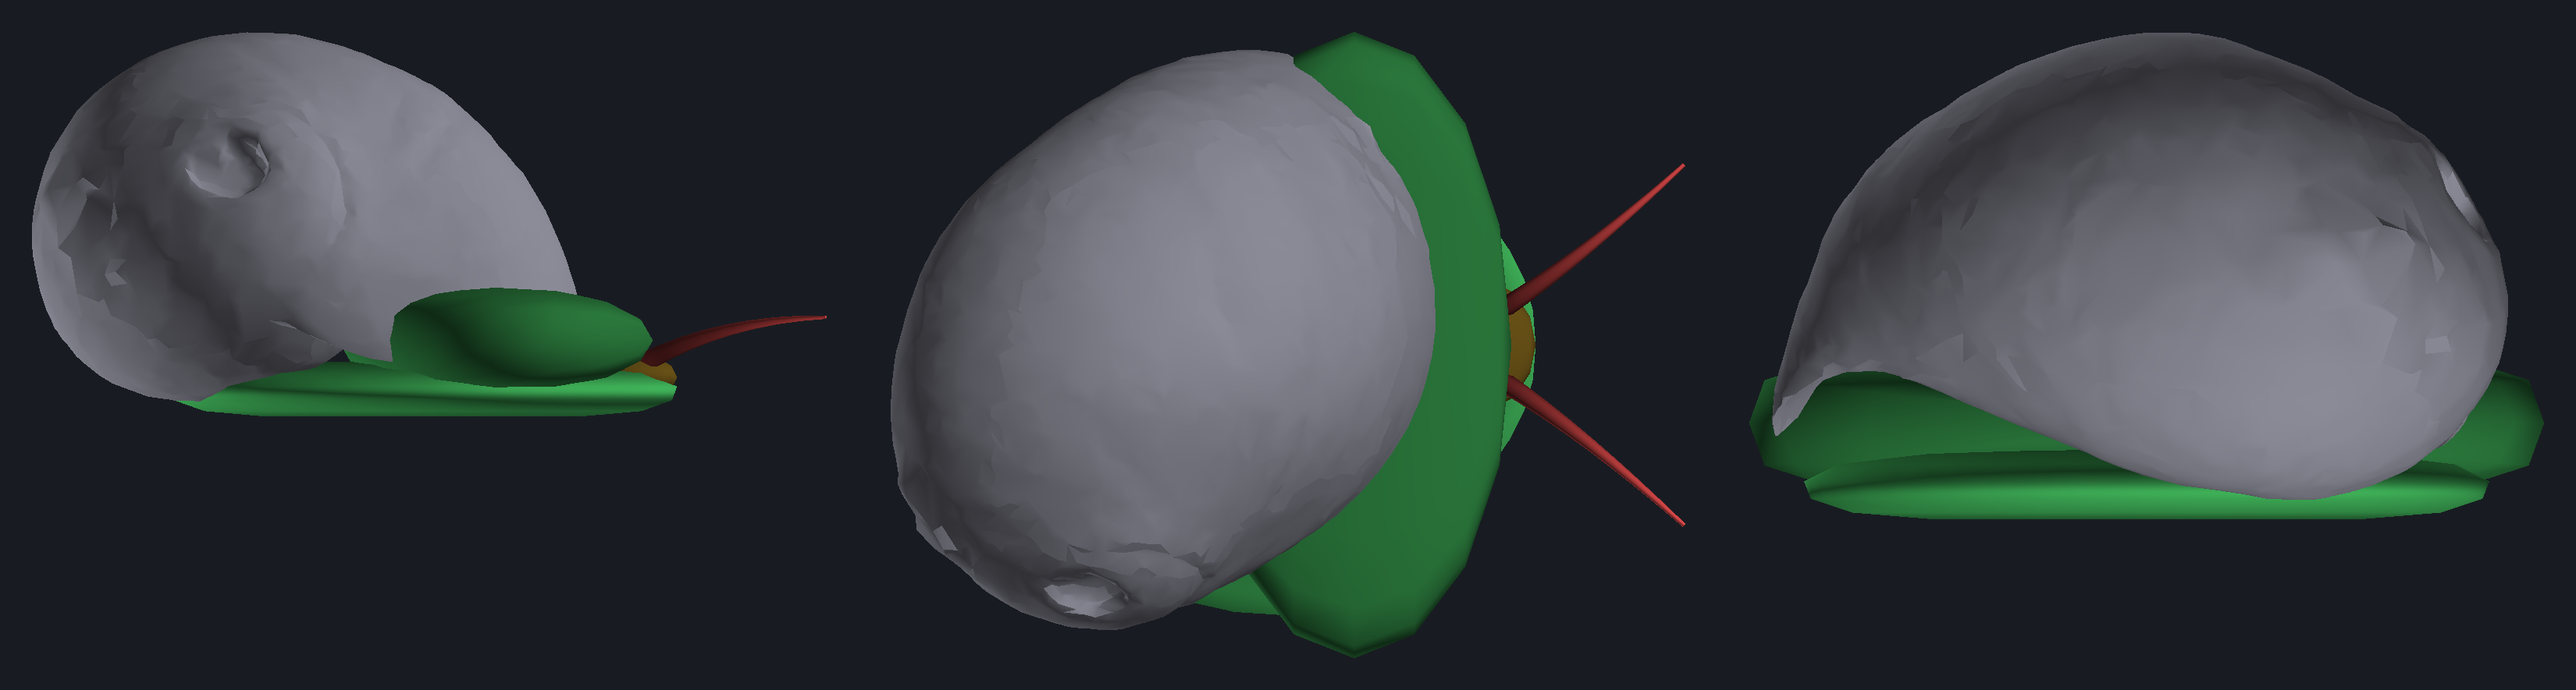
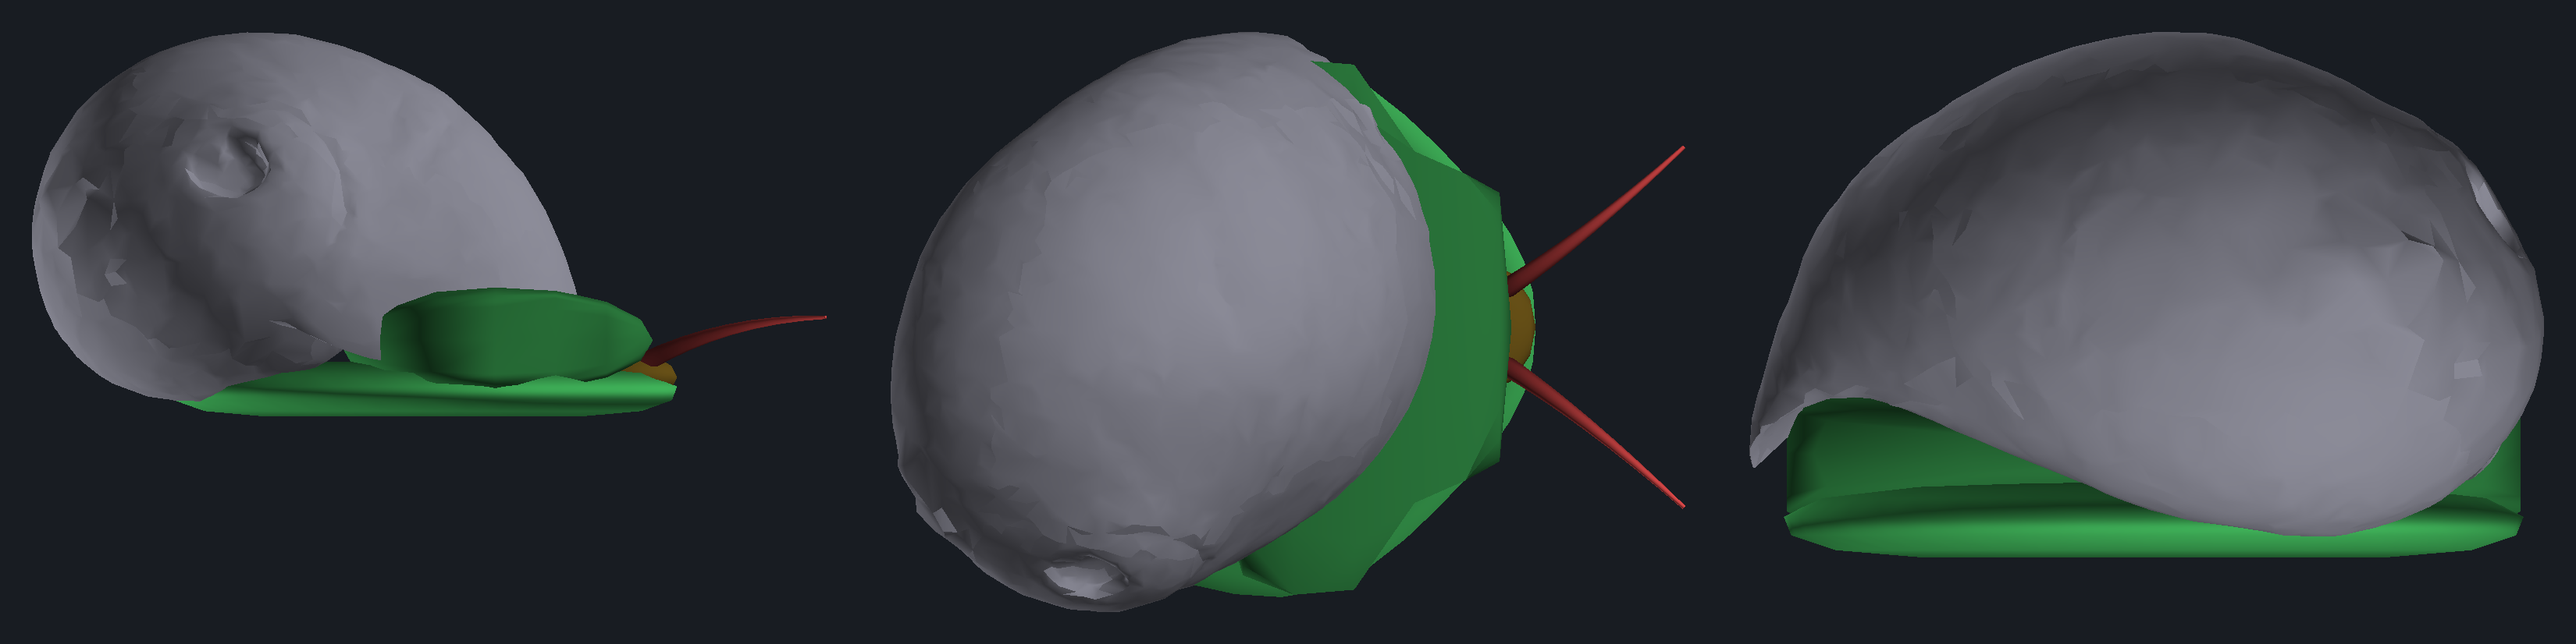
fix(assets): keep the nerite mantle inside the shell wall (#868)
Claude-Session: https://claude.ai/code/session_014h4umWfYfbtHynzrze5EiL

diff --git a/tools/asset-pipeline/src/nerite.ts b/tools/asset-pipeline/src/nerite.ts
@@ -269,9 +269,9 @@ function fan(rings: Rings, ring: number, centre: number, segments: number, flip:
 }
 const FOOT_SEGMENTS = 40;
 const FOOT_ROUNDNESS = 2.2;
-// A squarer cross-section fills the wedge between the shell's side wall, which hangs above the foot, and the mantle.
-const MANTLE_WIDTH = 1.16;
+// A squarer cross-section, clamped to the shell's inner width, fills the wedge under the shell's hanging side wall.
 const MANTLE_SQUARENESS = 0.5;
+const MANTLE_WALL_CLEARANCE = 0.92;
 const HEAD_SEGMENTS = 16;
 const HEAD_RINGS = 8;
 const TENTACLE_SIDES = 6;
@@ -341,6 +341,8 @@ export interface ShellFootprint {
   lipUnderY: number;
   /** Height of the roof of the aperture cavity. */
   ceilingY: number;
+  /** Half-width of the shell wall at z, below the aperture roof. */
+  wallHalfWidthAt: (z: number) => number;
 }
 
 const LIP_SAMPLES = 25;
@@ -442,6 +444,7 @@ export function buildNeriteBody(footprint: ShellFootprint, length: number): Neri
     weight: number,
     v: number,
     squareness = 1,
+    limitX?: (z: number) => number,
   ): void => {
     const ringStarts: number[] = [];
     for (let r = 1; r < HEAD_RINGS; r++) {
@@ -449,10 +452,13 @@ export function buildNeriteBody(footprint: ShellFootprint, length: number): Neri
       const points: Vec3[] = [];
       for (let k = 0; k < HEAD_SEGMENTS; k++) {
         const angle = (k / HEAD_SEGMENTS) * Math.PI * 2;
+        const z = centre[2] + radius[2] * Math.cos(phi);
+        const x = centre[0] + radius[0] * Math.sin(phi) * signedPow(Math.cos(angle), squareness);
+        const reach = limitX ? limitX(z) : Infinity;
         points.push([
-          centre[0] + radius[0] * Math.sin(phi) * signedPow(Math.cos(angle), squareness),
+          clamp(x, -reach, reach),
           centre[1] + radius[1] * Math.sin(phi) * signedPow(Math.sin(angle), squareness),
-          centre[2] + radius[2] * Math.cos(phi),
+          z,
         ]);
       }
       ringStarts.push(pushRing(rings, points, id, weight));
@@ -471,11 +477,12 @@ export function buildNeriteBody(footprint: ShellFootprint, length: number): Neri
   const mantleBottom = footH * 0.4;
   ellipsoid(
     [0, (mantleTop + mantleBottom) / 2, front - length * 0.3],
-    [halfWidth * MANTLE_WIDTH, (mantleTop - mantleBottom) / 2, length * 0.26],
+    [halfWidth * 1.3, (mantleTop - mantleBottom) / 2, length * 0.26],
     SNAIL_PART_IDS.foot,
     0.4,
     0.3,
     MANTLE_SQUARENESS,
+    (z) => footprint.wallHalfWidthAt(z) * MANTLE_WALL_CLEARANCE,
   );
   ellipsoid(headCentre, headRadius, SNAIL_PART_IDS.head, 0, 0.4);
 
@@ -762,7 +769,24 @@ export function tiltShell(part: Part, length: number, degrees: number): ShellFoo
   let ceilingY = 0;
   for (const [slice, y] of sliceFloor)
     if (slice >= 3 && slice <= 10) ceilingY = Math.max(ceilingY, y);
-  return { halfWidth, rearZ, frontZ, rimY, lipUnderY, ceilingY };
+  const wall = new Map<number, number>();
+  const sliceOf = (z: number): number => Math.round((z - rearZ) / (0.04 * length));
+  for (let i = 0; i < positions.length; i += 3)
+    if (positions[i + 1]! <= ceilingY) {
+      const slice = sliceOf(positions[i + 2]!);
+      wall.set(slice, Math.max(wall.get(slice) ?? 0, Math.abs(positions[i]!)));
+    }
+  const known = [...wall.keys()];
+  const wallHalfWidthAt = (z: number): number => {
+    const at = (z - rearZ) / (0.04 * length);
+    const lo = Math.floor(at);
+    const nearest = (slice: number): number =>
+      wall.get(known.reduce((a, b) => (Math.abs(b - slice) < Math.abs(a - slice) ? b : a)))!;
+    const a = wall.get(lo) ?? nearest(lo);
+    const b = wall.get(lo + 1) ?? nearest(lo + 1);
+    return a + (b - a) * (at - lo);
+  };
+  return { halfWidth, rearZ, frontZ, rimY, lipUnderY, ceilingY, wallHalfWidthAt };
 }
 
 /** Orients, scales and seats the scanned shell: +z forward, +y up, ground at y = 0, origin under the shell's centre. */

diff --git a/tools/asset-pipeline/src/crew-lods.test.ts b/tools/asset-pipeline/src/crew-lods.test.ts
@@ -212,7 +212,7 @@ function lipGapAcrossWidth(
     }
   }
   const bodyTop = lipUnder.map((_, bin) => bodyHeightAt(body, lipX[bin]!, lipZ[bin]!));
-  const gaps = lipUnder.map((y, bin) => y - bodyTop[bin]!).filter(Number.isFinite);
+  const gaps = lipUnder.flatMap((y, bin) => (Number.isFinite(y) ? [y - bodyTop[bin]!] : []));
   return { worst: Math.max(...gaps), samples: gaps.length };
 }
 
@@ -397,8 +397,8 @@ describe('nerite wedge', () => {
   beforeAll(() => MeshoptDecoder.ready);
 
   for (const level of [0, 1, 2])
-    for (const azimuth of [-60, -30, 0, 20, 40, 60])
-      for (const elevation of [0, 12])
+    for (const azimuth of [-60, -45, -30, 0, 20, 30, 40, 45, 60])
+      for (const elevation of [0, 6, 12, 20])
         it(`LOD${level} has no pocket of background under the shell from ${azimuth}/${elevation} degrees`, async () => {
           const prims = await readLod('snail/nerite-snail', level);
           const area = pocketArea(prims, 0.02, azimuth, elevation);

diff --git a/tools/asset-pipeline/src/hermit.ts b/tools/asset-pipeline/src/hermit.ts
@@ -600,7 +600,7 @@ function partColours(ids: Float32Array, weights: Float32Array): Float32Array {
   return colors;
 }
 
-/** Distance between the mean root (weight under 0.1) and mean tip (weight over 0.9) of a limb piece. */
+/** Distance between the mean root (weight under 0.1) and mean tip (weight over 0.9) of a limb piece. Throws when the piece has no root or no tip vertices. */
 export function limbReach(
   positions: ArrayLike<number>,
   members: number[],
@@ -665,7 +665,7 @@ export async function buildHermit(recipe: HermitRecipe, ctx: FishContext): Promi
       kind: p.kind as number,
       lateral: c[0] - hipLateral,
       ahead: c[2],
-      reach: limbReach(part.positions, members, seg.weight),
+      reach: p.kind === CRAB_KIND.leg ? limbReach(part.positions, members, seg.weight) : 0,
     };
   });
   const margin = recipe.minLegLateralFraction * standardLengthM;

diff --git a/tools/asset-pipeline/src/nerite.test.ts b/tools/asset-pipeline/src/nerite.test.ts
@@ -134,6 +134,7 @@ describe('buildNeriteBody', () => {
     rimY: 0.002,
     lipUnderY: 0.003,
     ceilingY: 0.006,
+    wallHalfWidthAt: () => 0.0075,
   };
   const built = buildNeriteBody(footprint, length);
   const body = built.part;

diff --git a/tools/asset-pipeline/src/hermit.test.ts b/tools/asset-pipeline/src/hermit.test.ts
@@ -8,9 +8,9 @@ import {
   CRAB_KIND,
   HERMIT_RECIPES,
   assignLimbIndices,
-  limbReach,
   clusterByDirection,
   crabColour,
+  limbReach,
   recolourDense,
   segmentCrab,
 } from './hermit.ts';
